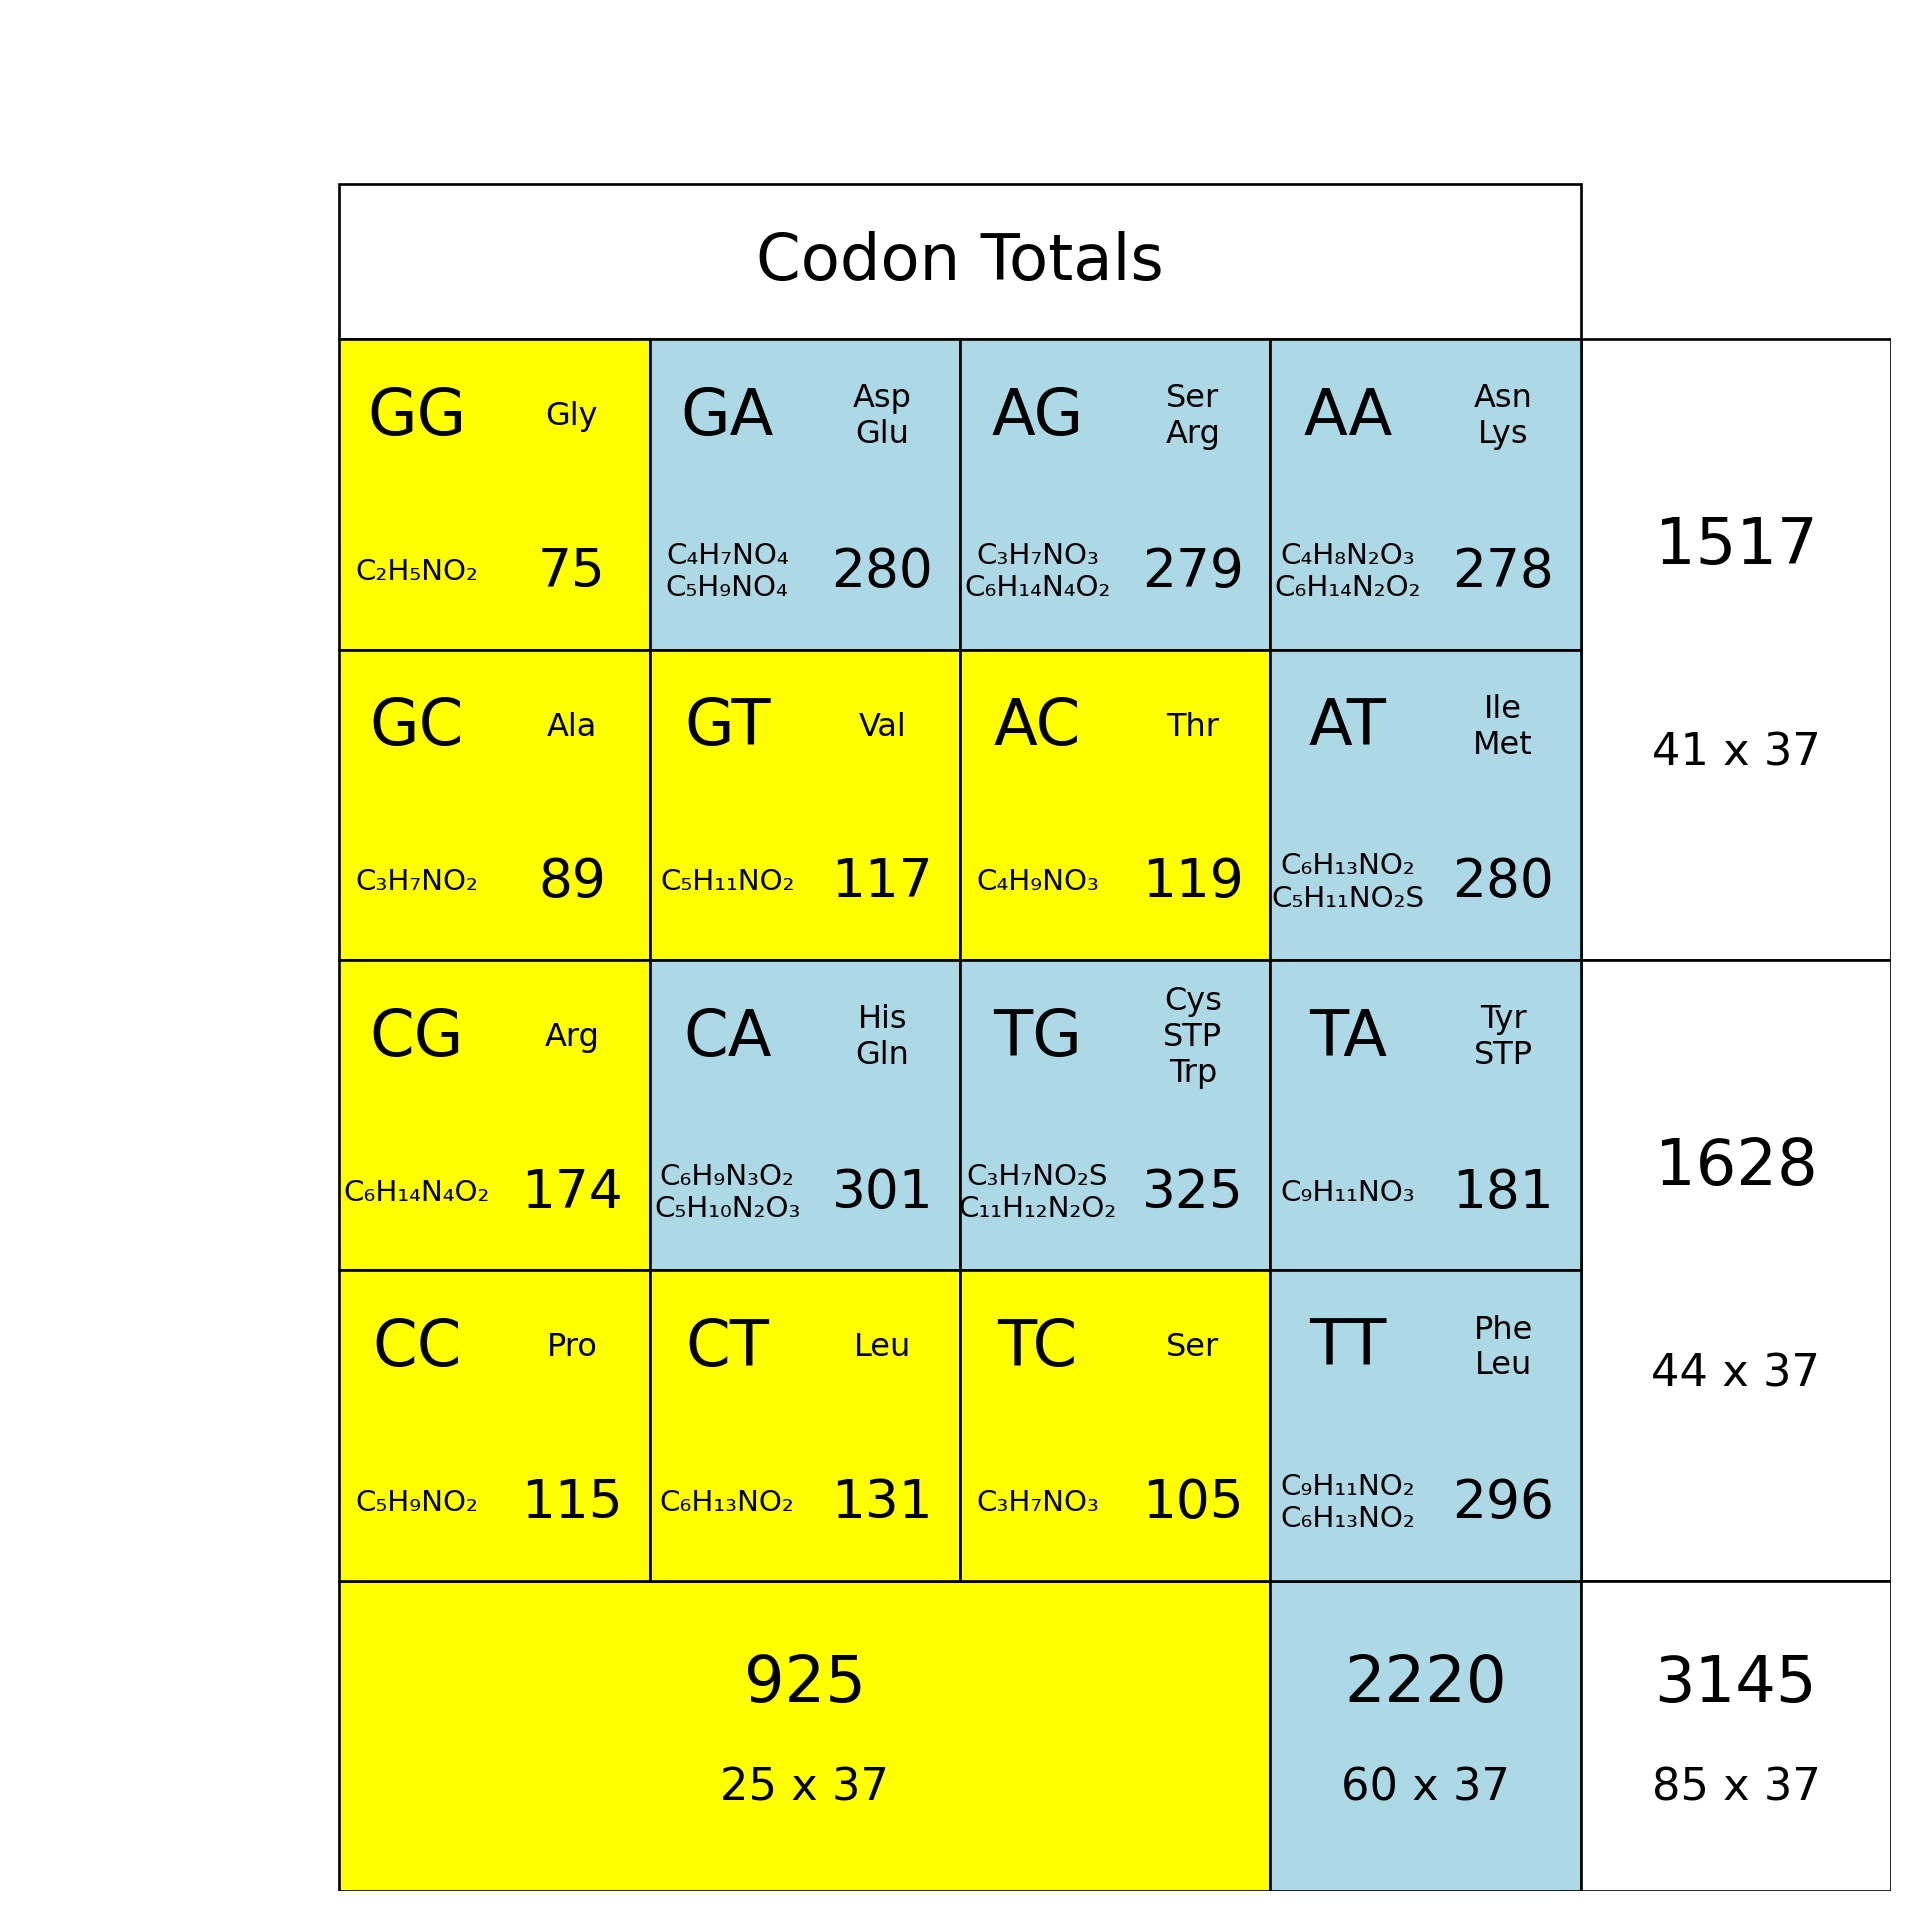
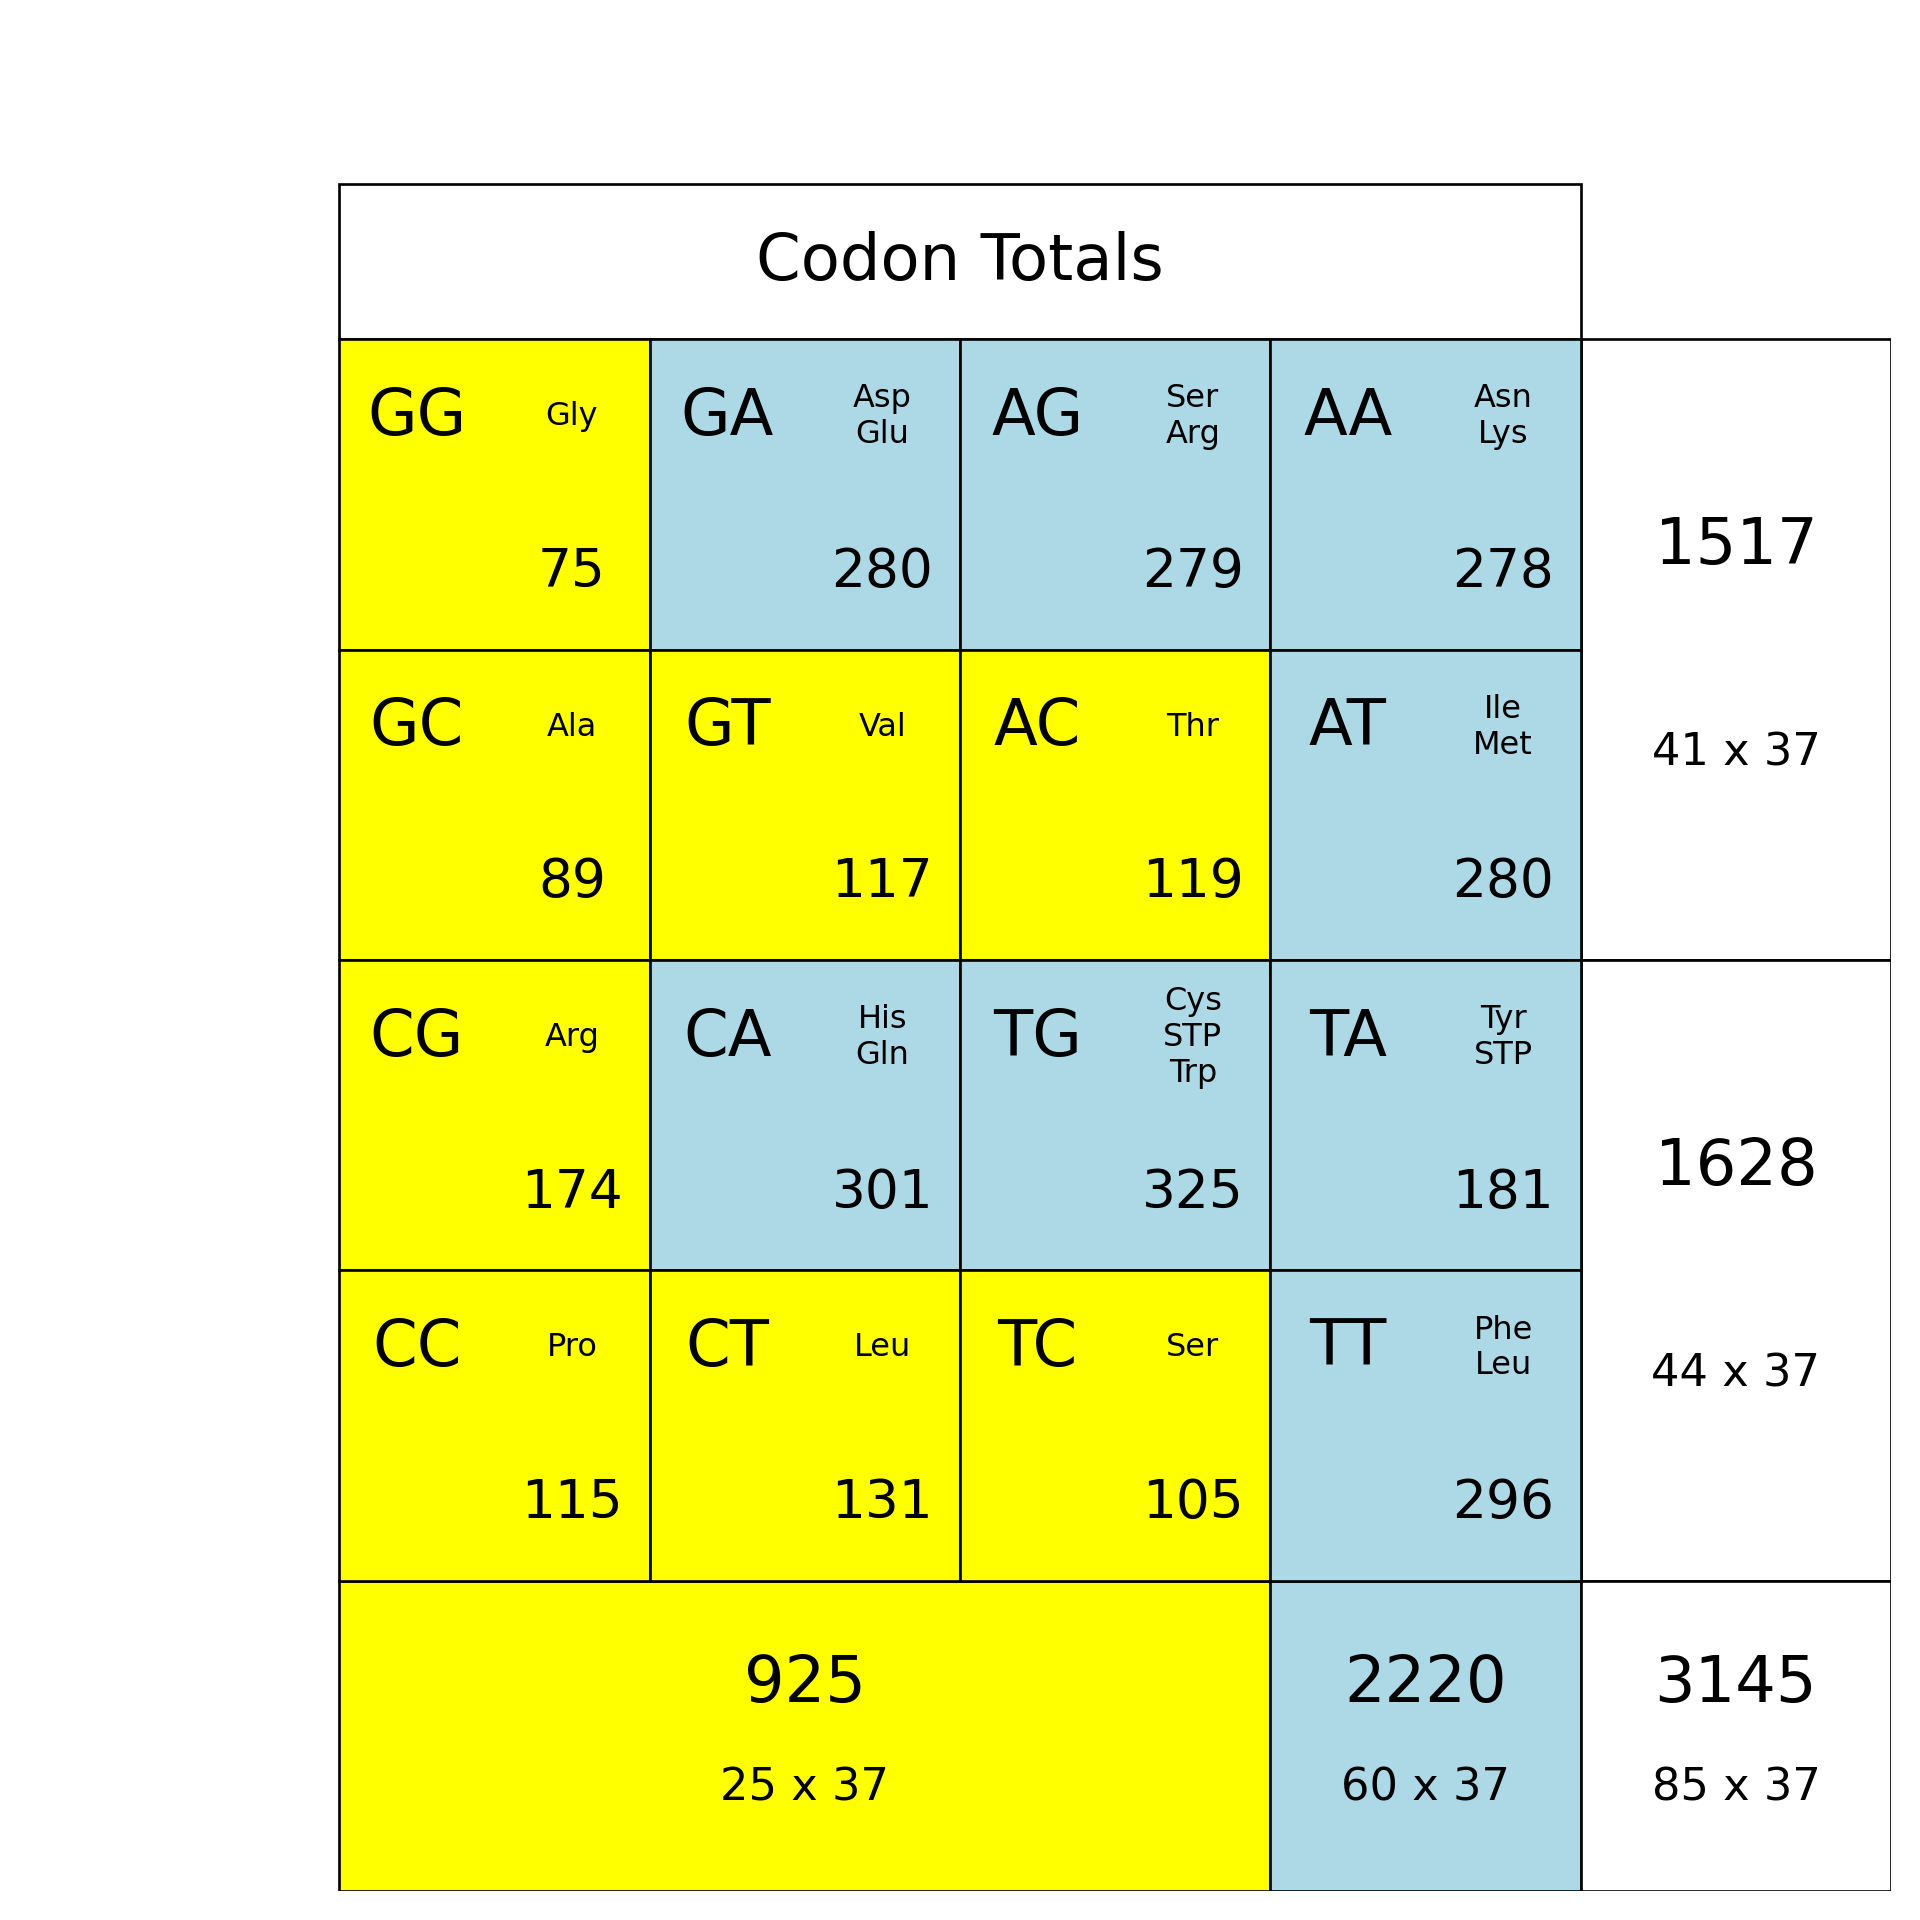
adj cells_display

diff --git a/lib_gridplots.py b/lib_gridplots.py
@@ -15,6 +15,7 @@ class FlexibleGridPlot:
     self.n_rows = config.get("n_rows", 12)
     self.n_cols = config.get("n_cols", 12)
     self.cells_offset = config.get("cells_offset", [0, 0])
+    self.cells_display = config.get("cells_display", ["tl", "tr", "bl", "br"])
     self.groups = {g["family"]: g["color"] for g in config.get("groups", [])}
     self.cells = config.get("cells", [])
     self.merged_cells = config.get("merged_cells", [])
@@ -127,10 +128,10 @@ class FlexibleGridPlot:
         
         # Subcell texts
         texts = [
-          self.format_texts(str(tl)),
-          self.format_texts(str(tr)),
-          self.format_formulas(bl),
-          self.format_texts(str(br))
+          self.format_texts(str(tl)) if "tl" in self.cells_display else "",
+          self.format_texts(str(tr)) if "tr" in self.cells_display else "",
+          self.format_formulas(bl) if "bl" in self.cells_display else "",
+          self.format_texts(str(br)) if "br" in self.cells_display else ""
         ]
         sizes = self.sizes
         self.draw_subtexts(ax, row, col, texts, sizes)
